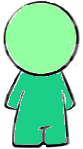
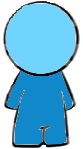
added message text to youLost() cleaned up player.png cleaned up bow.png

diff --git a/src/com/jetbrains/Game.java b/src/com/jetbrains/Game.java
@@ -30,7 +30,6 @@ class Game {
     static Stage gameStage;
     static GIO gio;
     static Map map;
-    static String name;
     static Player player;
     static boolean youWon;
     static boolean  youLost;
@@ -50,10 +49,10 @@ class Game {
         gio.updateInfo("You shot the wumpus.  YOU WIN !!!!!!!");
     }
 
-    static void youLost(){
+    static void youLost(String msg){
         youLost = true;
         stillPlayiing = false;
-        gio.showDialog("The Wumpus got you.  YOU LOSE :-(");
+        gio.showDialog(msg + " YOU LOSE :-(");
     }
 
     //

diff --git a/src/com/jetbrains/GIO.java b/src/com/jetbrains/GIO.java
@@ -86,10 +86,13 @@ class GIO {
         Game.gameStage.show();
 
         if (roomNumber == Cave.wumpus.roomNumber) {
-            Game.youLost();
+            Game.youLost("The Wumpus got you");
         }
         else if (Cave.rooms[roomNumber].hasBat()) {
             relocatePlayer();
+        }
+        else if (Cave.rooms[roomNumber].hasPit) {
+            Game.youLost("You fell into a bottomless pit");
         }
         else {
             // have to examine all mouse clicks because clicking on the transparent part of
